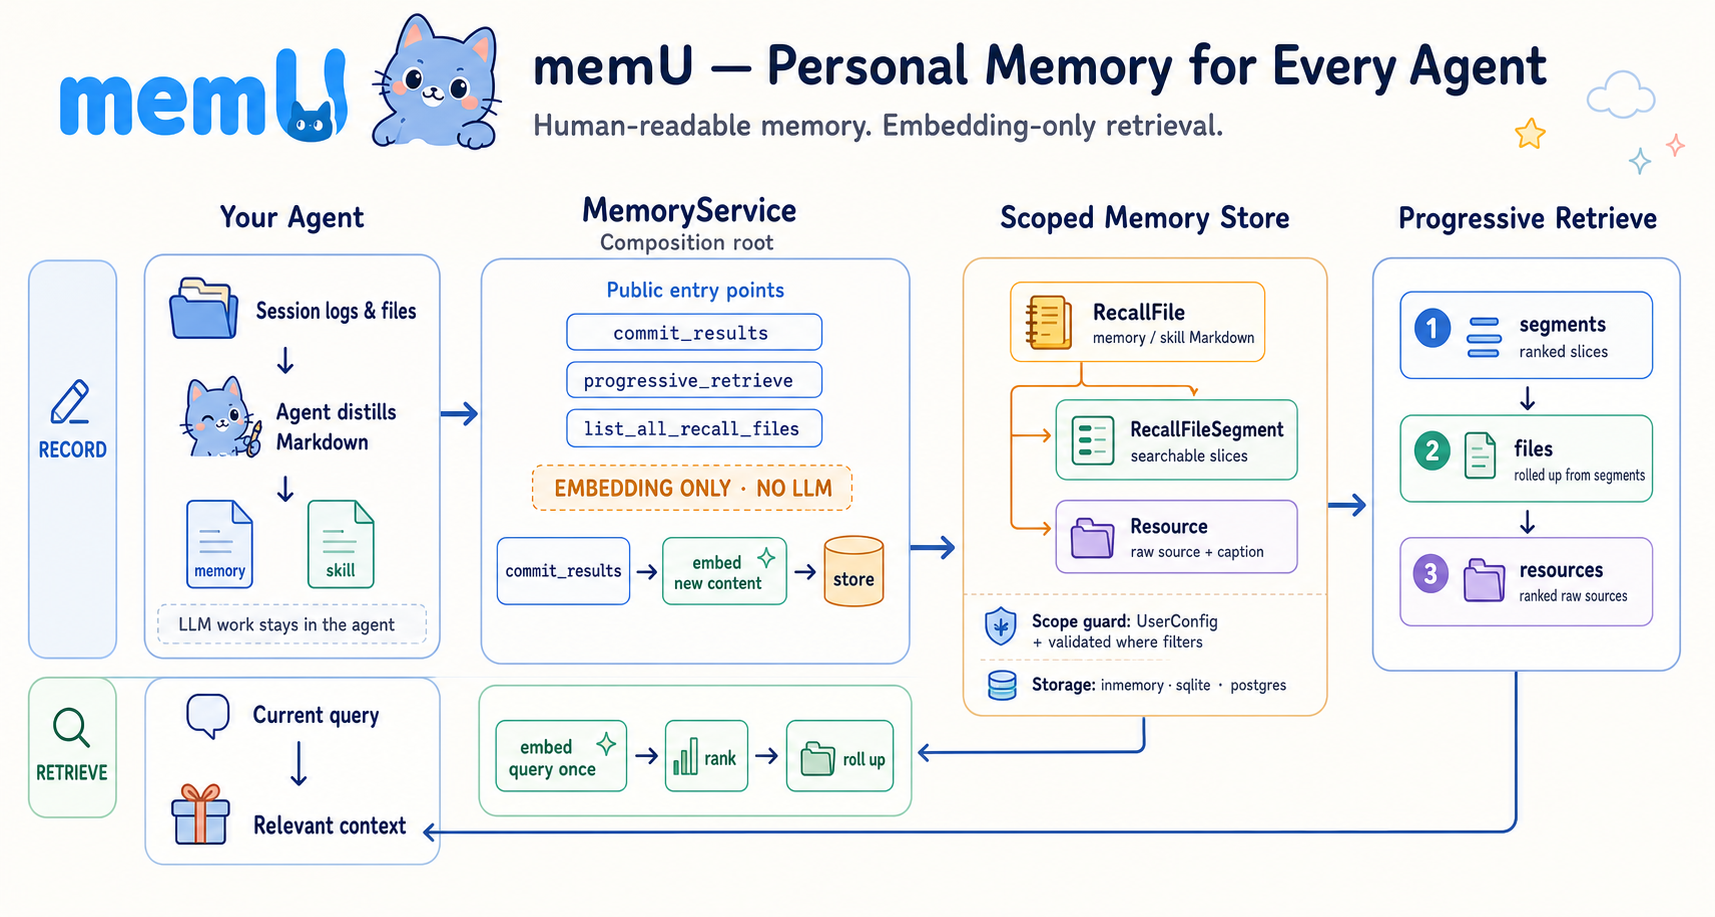
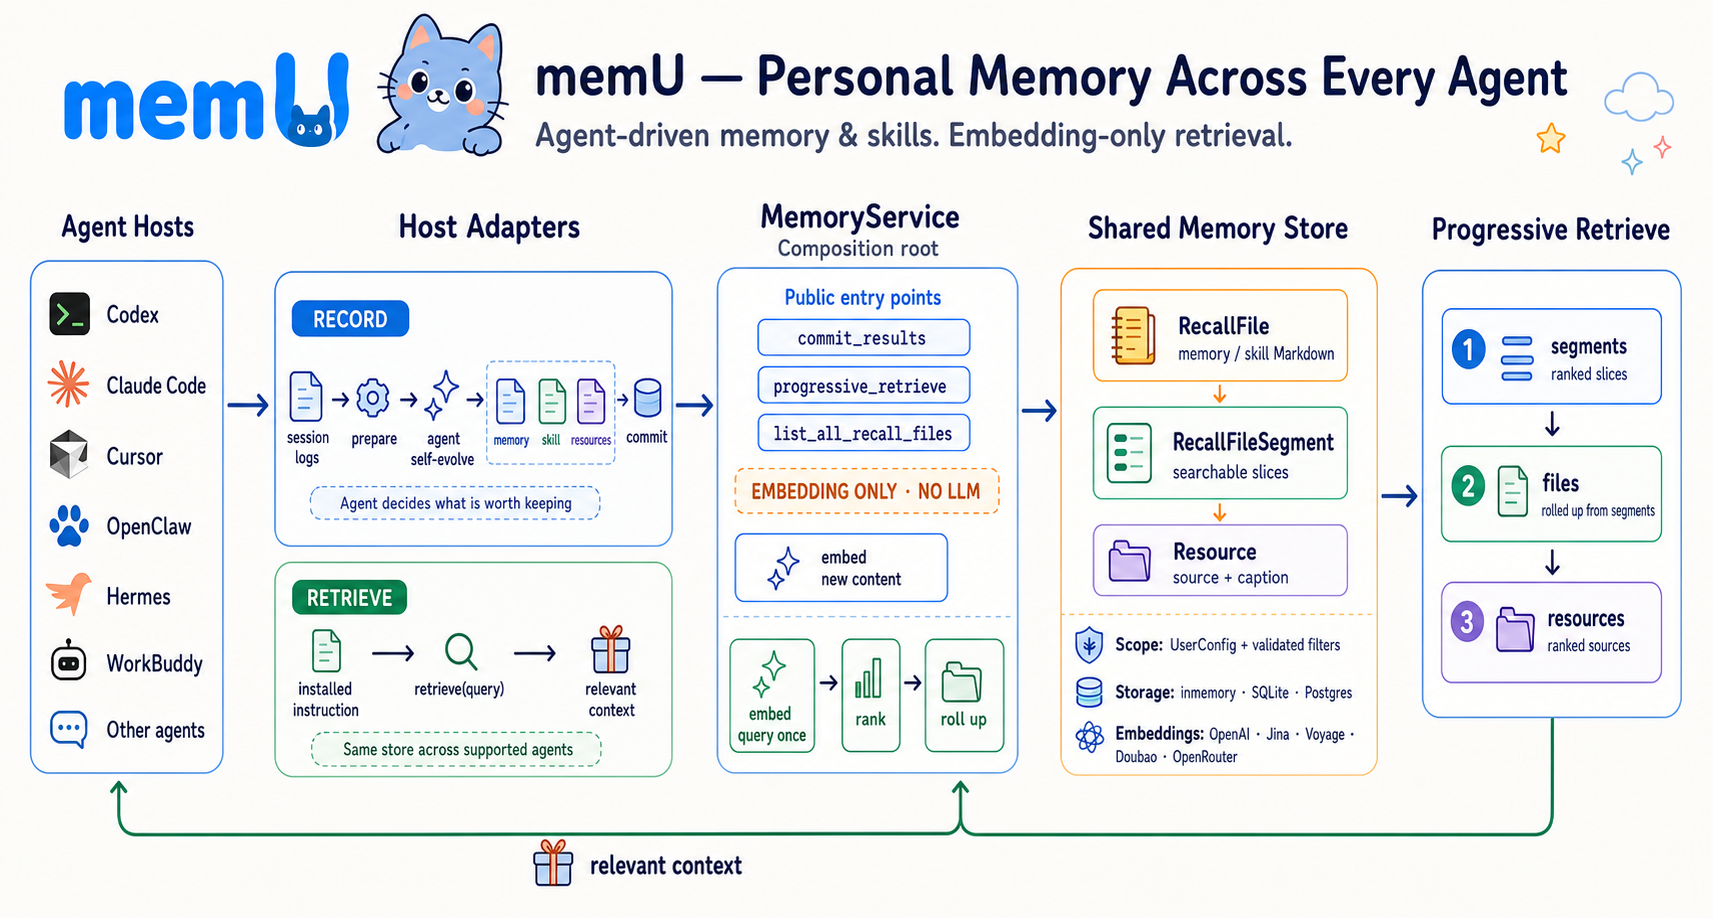
docs: refresh README architecture diagram (#559)
Update the architecture image to match the current host adapters, bridging pipeline, MemoryService surface, shared store, and progressive retrieval flow; simplify the README subtitle.

Pull request: docs: refresh README architecture diagram
## What changed

- regenerate the README architecture diagram from the current code paths
- show supported host adapters and their record/retrieve seams
- show the prepare → agent self-evolve → commit pipeline for memory, skills, and resources
- show the three `MemoryService` entry points and embedding-only boundary
- show the current store entities, scope guard, storage backends, embedding providers, and progressive retrieval layers
- simplify the README subtitle to `Personal memory, stored as Wiki`

## Why

The existing diagram focused on the core service but did not reflect the current host-adapter and bridging architecture. The new diagram presents the full user-to-store-to-retrieval loop implemented by the latest code.

## Validation

- reviewed the implementation in `src/memu/app`, `src/memu/hosts`, `src/memu/database`, and `src/memu/embedding`
- rendered and visually inspected a 1200px preview of the final PNG
- verified the final asset is a valid 1713×918 RGB PNG
- `git diff --check` passes
- `.claude/` remains untracked and is not included

Changed region(s): [[0.0, 0.2137, 0.9901, 0.9771], [0.0309, 0.0, 0.9901, 0.1832], [0.1238, 0.2137, 0.2166, 0.2443]]

diff --git a/README.md b/README.md
@@ -4,7 +4,7 @@
 
 # memU
 
-### Personal memory, stored as an LLM wiki
+### Personal memory, stored as Wiki
 
 **Across Sessions. Across Agents. Across Devices.**
 